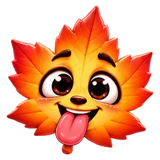
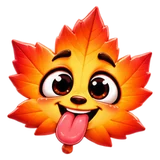
Arena: «Осенний лист» stickers cut whole
The sheet's leaves nearly touch: a straight grid line cut the tip off
sticker 23 and left stem ends of the leaves above on 19, 23 and 24.
Each leaf is now flooded from its own body over the opaque pixels, so a
stem stays with its leaf and touching leaves part along the gap.
Sticker URLs of the pack carry ?v=2: phones keep stickers for a week.

Claude-Session: https://claude.ai/code/session_01JT1XjQap1mSayXz8AdUt4o

diff --git a/arena/packages/shared/src/lobby.ts b/arena/packages/shared/src/lobby.ts
@@ -148,7 +148,8 @@ export const EMOJI_PACKS = {
   emoji_pack_horse: { title: 'Смайлы «Лошадка»', stickers: { prefix: 'horse', count: 25 } },
   emoji_pack_cat: { title: 'Смайлы «Котик»', stickers: { prefix: 'cat', count: 25 } },
   emoji_pack_raccoon: { title: 'Смайлы «Енот»', stickers: { prefix: 'raccoon', count: 25 } },
-  emoji_pack_leaf: { title: 'Смайлы «Осенний лист»', stickers: { prefix: 'leaf', count: 25 } },
+  // `v`: bump when a pack's pictures change — phones keep stickers for a week.
+  emoji_pack_leaf: { title: 'Смайлы «Осенний лист»', stickers: { prefix: 'leaf', count: 25, v: 2 } },
 } as const;
 export type EmojiPackKey = keyof typeof EMOJI_PACKS;
 export const DEFAULT_EMOJI_PACK: EmojiPackKey = 'emoji_pack_basic';
@@ -179,5 +180,8 @@ export function packOfSmile(smile: string): EmojiPackKey | null {
 /** Picture of a sticker, or null for a classic emoji. */
 export function stickerUrl(smile: string): string | null {
   const [prefix, n] = smile.split(':');
-  return n ? `/emoji/${prefix}/${n}.webp` : null;
+  if (!n) return null;
+  const pack = Object.values(EMOJI_PACKS).find((p) => p.stickers?.prefix === prefix)?.stickers;
+  const v = pack && 'v' in pack ? `?v=${pack.v}` : '';
+  return `/emoji/${prefix}/${n}.webp${v}`;
 }
